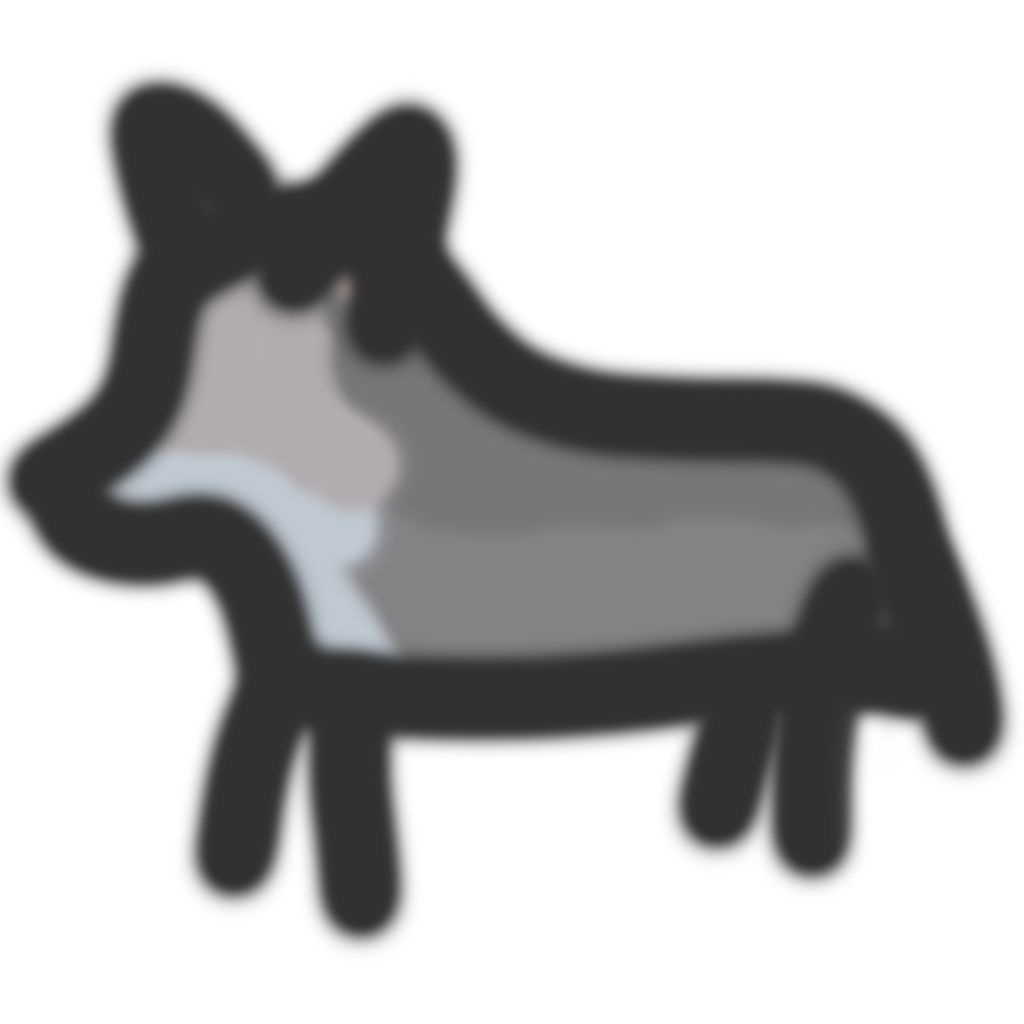
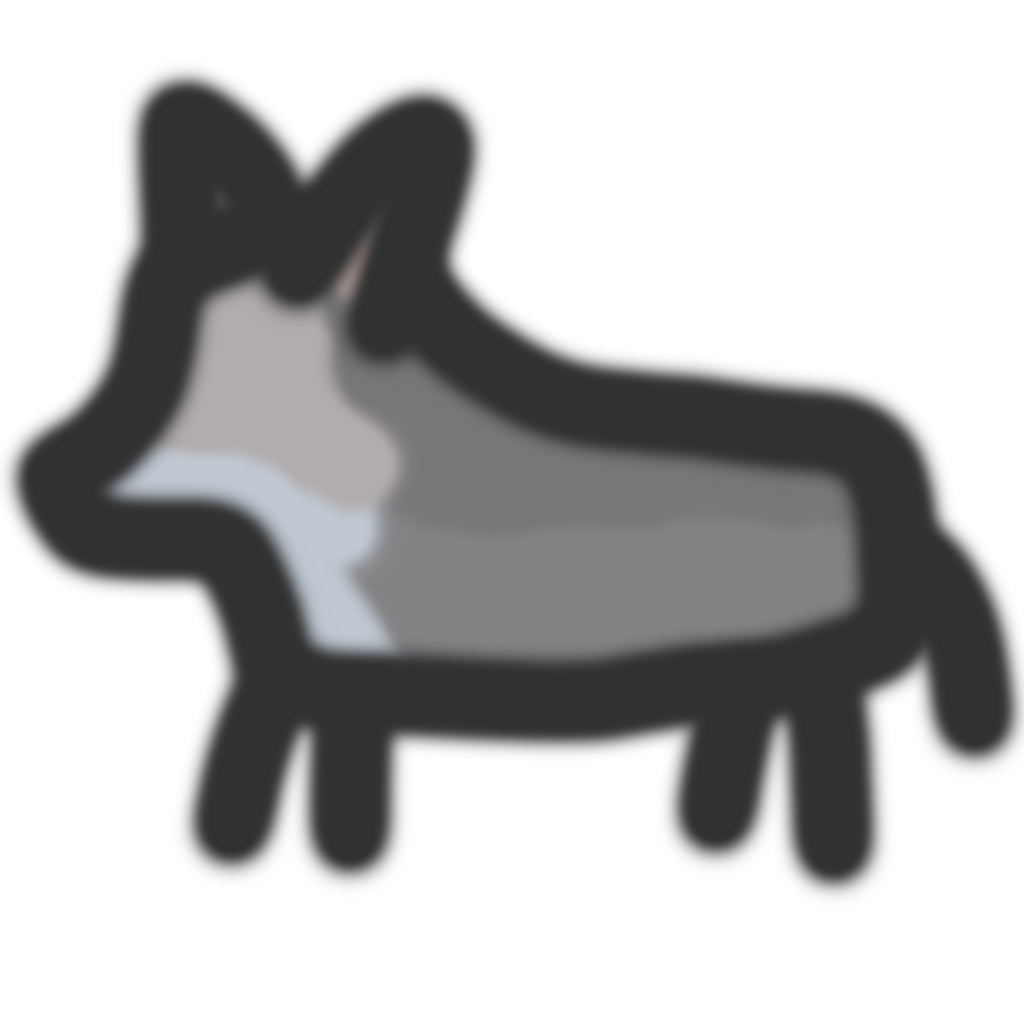
Delete ActorBodyPart

diff --git a/src/main/java/graphics/displayer/ActorDisplayer.java b/src/main/java/graphics/displayer/ActorDisplayer.java
@@ -1,16 +1,10 @@
 package graphics.displayer;
 
-import java.util.ArrayList;
-import java.util.List;
-
 import app.NomadsSettings;
 import context.GLContext;
 import context.ResourcePack;
 import context.game.visuals.GameCamera;
-import context.game.visuals.renderer.ActorBodyPartRenderer;
 import context.visuals.renderer.TextureRenderer;
-import engine.common.math.Vector2f;
-import graphics.displayable.ActorBodyPart;
 import model.actor.Actor;
 import model.id.Id;
 import model.state.GameState;
@@ -18,9 +12,6 @@ import model.state.GameState;
 public abstract class ActorDisplayer<T extends Actor> {
 
 	protected TextureRenderer textureRenderer;
-	private ActorBodyPartRenderer actorBodyPartRenderer;
-
-	protected List<ActorBodyPart> actorBodyParts = new ArrayList<>(2);
 
 	private boolean init;
 
@@ -40,20 +31,9 @@ public abstract class ActorDisplayer<T extends Actor> {
 
 	protected void init(ResourcePack resourcePack, GameState state) {
 		textureRenderer = resourcePack.getRenderer("texture", TextureRenderer.class);
-		actorBodyPartRenderer = resourcePack.getRenderer("actor_body_part", ActorBodyPartRenderer.class);
 	}
 
 	public abstract void display(GLContext glContext, NomadsSettings s, GameState state, GameCamera camera, float alpha);
-
-	protected final void displayBodyParts(GLContext glContext, NomadsSettings s, GameState state, GameCamera camera, T t, float alpha,
-	                                      Vector2f direction) {
-		Vector2f position = t.screenPos(camera, s);
-		actorBodyPartRenderer.render(s, actorBodyParts, position, direction);
-	}
-
-	protected final void addBodyPart(ActorBodyPart bodyPart) {
-		actorBodyParts.add(bodyPart);
-	}
 
 	public final boolean initialized() {
 		return init;

diff --git a/src/main/java/graphics/displayer/VillageFarmerDisplayer.java b/src/main/java/graphics/displayer/VillageFarmerDisplayer.java
@@ -10,7 +10,6 @@ import context.ResourcePack;
 import context.game.visuals.GameCamera;
 import context.visuals.lwjgl.Texture;
 import engine.common.math.Vector2f;
-import graphics.displayable.TextureBodyPart;
 import model.actor.npc.village.farmer.VillageFarmer;
 import model.item.Item;
 import model.item.ItemCollection;
@@ -19,26 +18,25 @@ import model.state.GameState;
 public class VillageFarmerDisplayer extends CardPlayerDisplayer<VillageFarmer> {
 
 	private Vector2f lastDirection = new Vector2f(0, 1);
+	private Texture farmerTexture;
 
 	@Override
 	protected void init(ResourcePack resourcePack, GameState state) {
 		super.init(resourcePack, state);
 
-		Texture texture = resourcePack.getTexture("npc_village_farmer");
-		TextureBodyPart actorBodyPart = new TextureBodyPart(texture, 0.4f);
-		actorBodyPart.height = 20;
-		addBodyPart(actorBodyPart);
+		farmerTexture = resourcePack.getTexture("npc_village_farmer");
 	}
 
 	@Override
 	public void display(GLContext glContext, NomadsSettings s, GameState state, GameCamera camera, float alpha) {
 		VillageFarmer farmer = (VillageFarmer) actorId().getFrom(state);
-		displayBodyParts(glContext, s, state, camera, farmer, alpha, lastDirection);
+
+		Vector2f sp = farmer.screenPos(camera, s);
+
+		textureRenderer.render(farmerTexture, sp.x(), sp.y(), 0.4f);
 		displayHealth(glContext, s, farmer, state, camera);
 		displayQueue(glContext, s, farmer, state, camera);
 		displayEffectChains(glContext, s, farmer, state, camera);
-
-		Vector2f sp = farmer.screenPos(camera, s);
 
 		rectangleRenderer().render(sp.x() - 60, sp.y() - 150, 120, 50, rgba(199, 182, 121, 120));
 		rectangleRenderer().render(sp.x() - 56, sp.y() - 146, 112, 42, rgba(245, 224, 147, 120));

diff --git a/src/main/java/graphics/displayer/TreeActorDisplayer.java b/src/main/java/graphics/displayer/TreeActorDisplayer.java
@@ -6,23 +6,26 @@ import context.ResourcePack;
 import context.game.visuals.GameCamera;
 import context.visuals.lwjgl.Texture;
 import engine.common.math.Vector2f;
-import graphics.displayable.TextureBodyPart;
 import model.actor.resource.TreeActor;
 import model.state.GameState;
 
 public class TreeActorDisplayer extends ActorDisplayer<TreeActor> {
 
+	private Texture treeTexture;
+
 	@Override
 	protected void init(ResourcePack resourcePack, GameState state) {
 		super.init(resourcePack, state);
-		Texture texture = resourcePack.getTexture("resource_tree");
-		TextureBodyPart actorBodyPart = new TextureBodyPart(texture, 0.8f);
-		addBodyPart(actorBodyPart);
+		treeTexture = resourcePack.getTexture("resource_tree");
 	}
 
 	@Override
 	public void display(GLContext glContext, NomadsSettings s, GameState state, GameCamera camera, float alpha) {
-		displayBodyParts(glContext, s, state, camera, (TreeActor) actorId().getFrom(state), alpha, new Vector2f(0, 1));
+		TreeActor tree = (TreeActor) actorId().getFrom(state);
+		Vector2f sp = tree.screenPos(camera, s);
+		Vector2f dim = treeTexture.dimensions().scale(0.4f);
+		textureRenderer.render(treeTexture, sp.x() - dim.x() * 0.5f,
+				sp.y() - dim.y() * 0.5f + s.tileHeight() * 0.2f, dim.x(), dim.y());
 	}
 
 }

diff --git a/src/main/java/context/loading/LoadingGameVisuals.java b/src/main/java/context/loading/LoadingGameVisuals.java
@@ -14,7 +14,6 @@ import java.util.concurrent.ExecutionException;
 import java.util.concurrent.Future;
 
 import context.ResourcePack;
-import context.game.visuals.renderer.ActorBodyPartRenderer;
 import context.game.visuals.renderer.ChainHeapRenderer;
 import context.game.visuals.renderer.ParticleRenderer;
 import context.game.visuals.renderer.hexagon.HexagonRenderer;
@@ -221,9 +220,6 @@ public class LoadingGameVisuals extends GameVisuals {
 
 			ParticleRenderer particleRenderer = new ParticleRenderer(textureRenderer, lineRenderer);
 			rp.putRenderer("particle", particleRenderer);
-
-			ActorBodyPartRenderer bodyPartRenderer = new ActorBodyPartRenderer(textureRenderer, lineRenderer);
-			rp.putRenderer("actor_body_part", bodyPartRenderer);
 
 			EllipseShaderProgram ellipseSP = new EllipseShaderProgram(transformationVS, fEllipseFS.get());
 			loader().submit(new ShaderProgramLoadTask(ellipseSP)).get();

diff --git a/src/main/java/graphics/displayer/CardPlayerDisplayer.java b/src/main/java/graphics/displayer/CardPlayerDisplayer.java
@@ -2,9 +2,6 @@ package graphics.displayer;
 
 import static context.visuals.colour.Colour.rgba;
 
-import java.util.ArrayList;
-import java.util.List;
-
 import app.NomadsSettings;
 import context.GLContext;
 import context.ResourcePack;
@@ -12,7 +9,6 @@ import context.game.visuals.GameCamera;
 import context.visuals.builtin.RectangleRenderer;
 import context.visuals.lwjgl.Texture;
 import event.logicprocessing.CardPlayedEvent;
-import graphics.displayable.ActorBodyPart;
 import model.actor.CardPlayer;
 import model.card.CardQueue;
 import model.state.GameState;
@@ -25,8 +21,6 @@ public abstract class CardPlayerDisplayer<T extends CardPlayer> extends HealthAc
 
 //	private Texture chainSegment;
 //	private Texture effectSquare;
-
-	protected List<ActorBodyPart> actorBodyParts = new ArrayList<>(2);
 
 	@Override
 	protected void init(ResourcePack resourcePack, GameState state) {

diff --git a/src/main/java/graphics/displayer/NomadDisplayer.java b/src/main/java/graphics/displayer/NomadDisplayer.java
@@ -31,8 +31,6 @@ public class NomadDisplayer extends CardPlayerDisplayer<Nomad> {
 		Vector2f sp = nomad.screenPos(camera, s);
 		float side = s.worldScale * 1.1f;
 		textureRenderer.render(nomadTexture, sp.x() - side / 2, sp.y() - side * 0.8f, side, side);
-		long longID = nomad.longID();
-		Vector2f screenPos = nomad.screenPos(camera, s);
 //		float x = screenPos.x - 60;
 //		float y = screenPos.y - 120;
 //		textRenderer.alignCenter();
